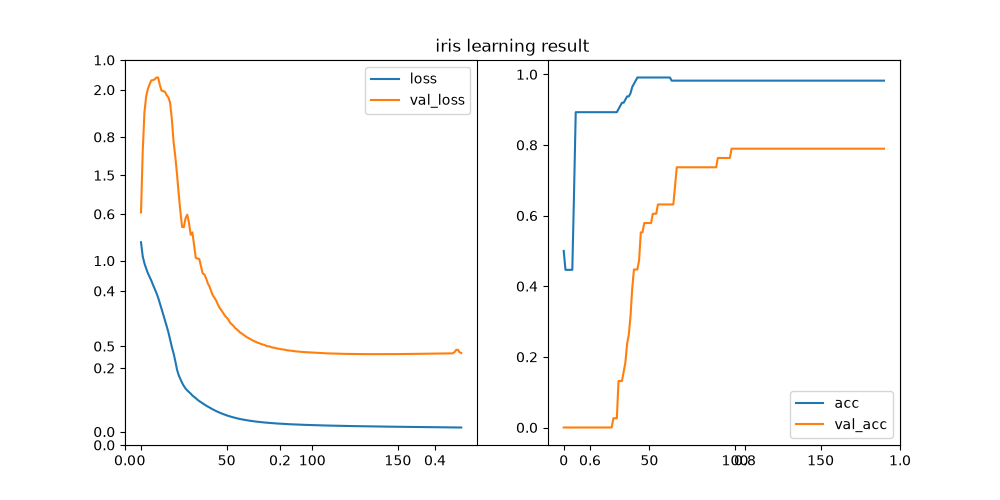
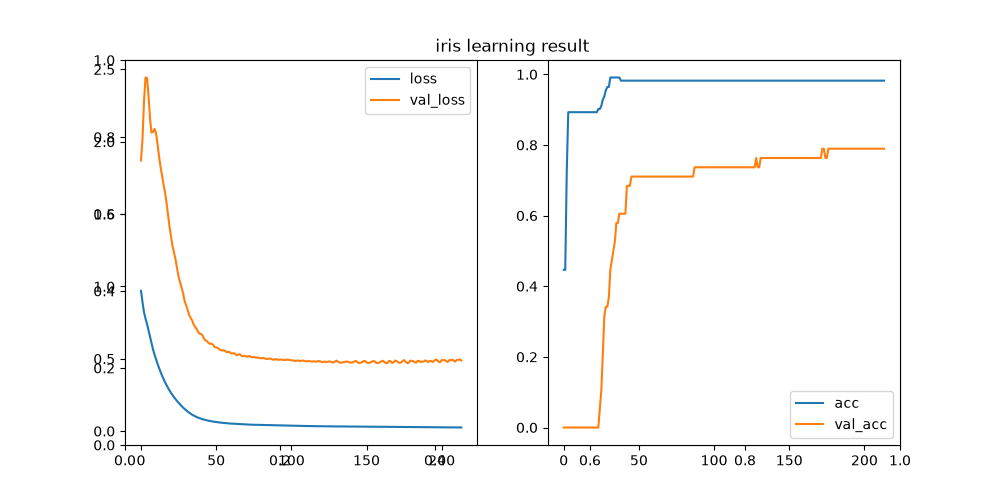
taxis.ipynb에 빈 코드 셀 추가

diff --git a/iris.py b/iris.py
@@ -32,7 +32,7 @@ history = model.fit(x, y, callbacks=[esc],
 print(f'accuracy : {model.evaluate(x,y)}')
 
 plt.figure(figsize=(10,5))
-plt.title('iris learning result')
+plt.suptitle('iris learning result')
 ax = plt.subplot(1,2,1)
 ax.plot(history.history['loss'], label='loss')
 ax.plot(history.history['val_loss'], label='val_loss')
